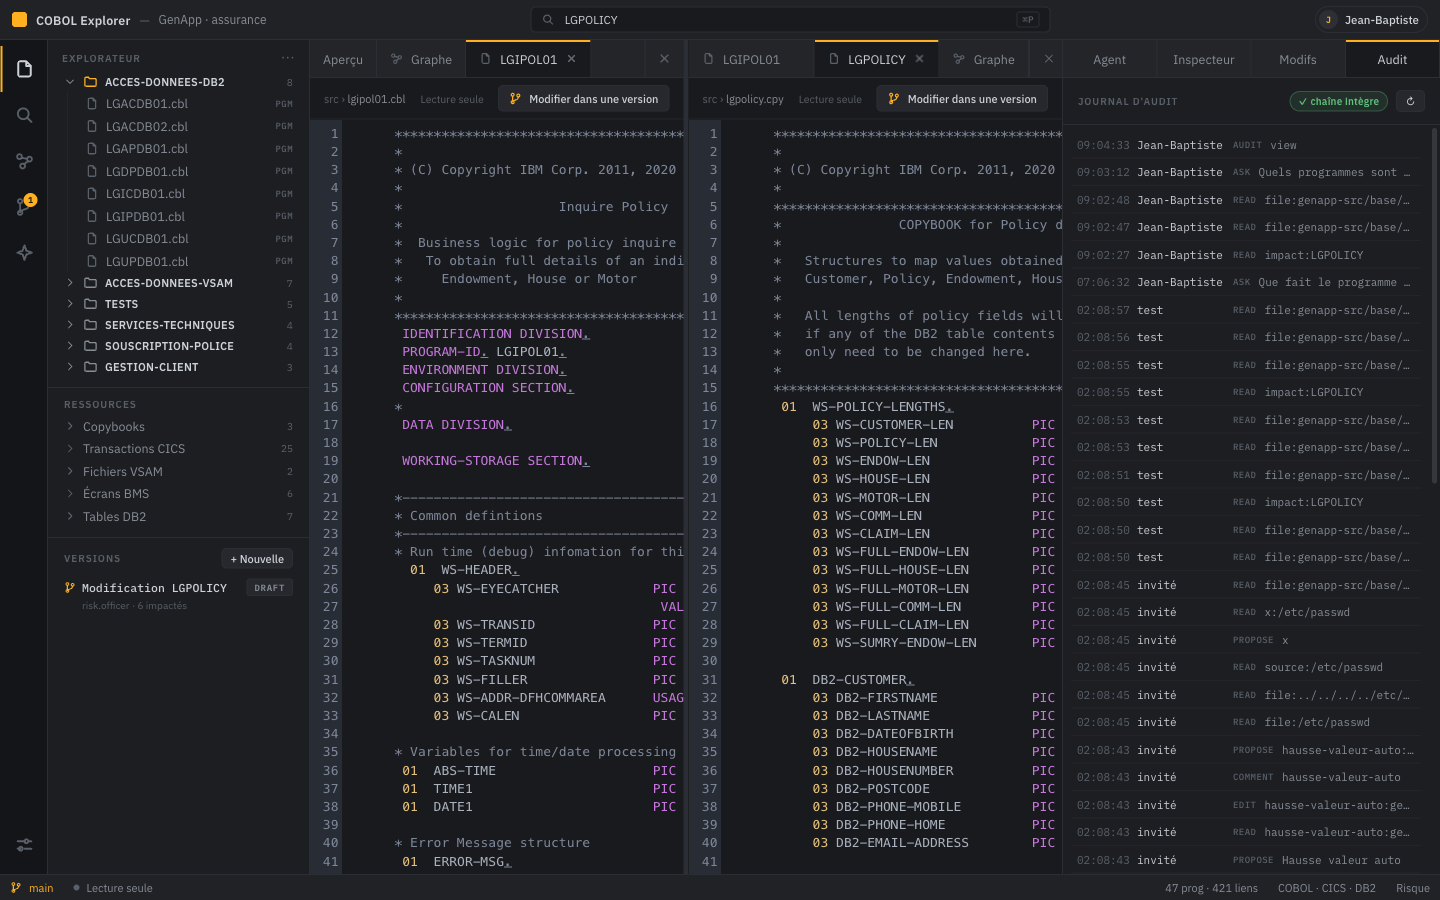
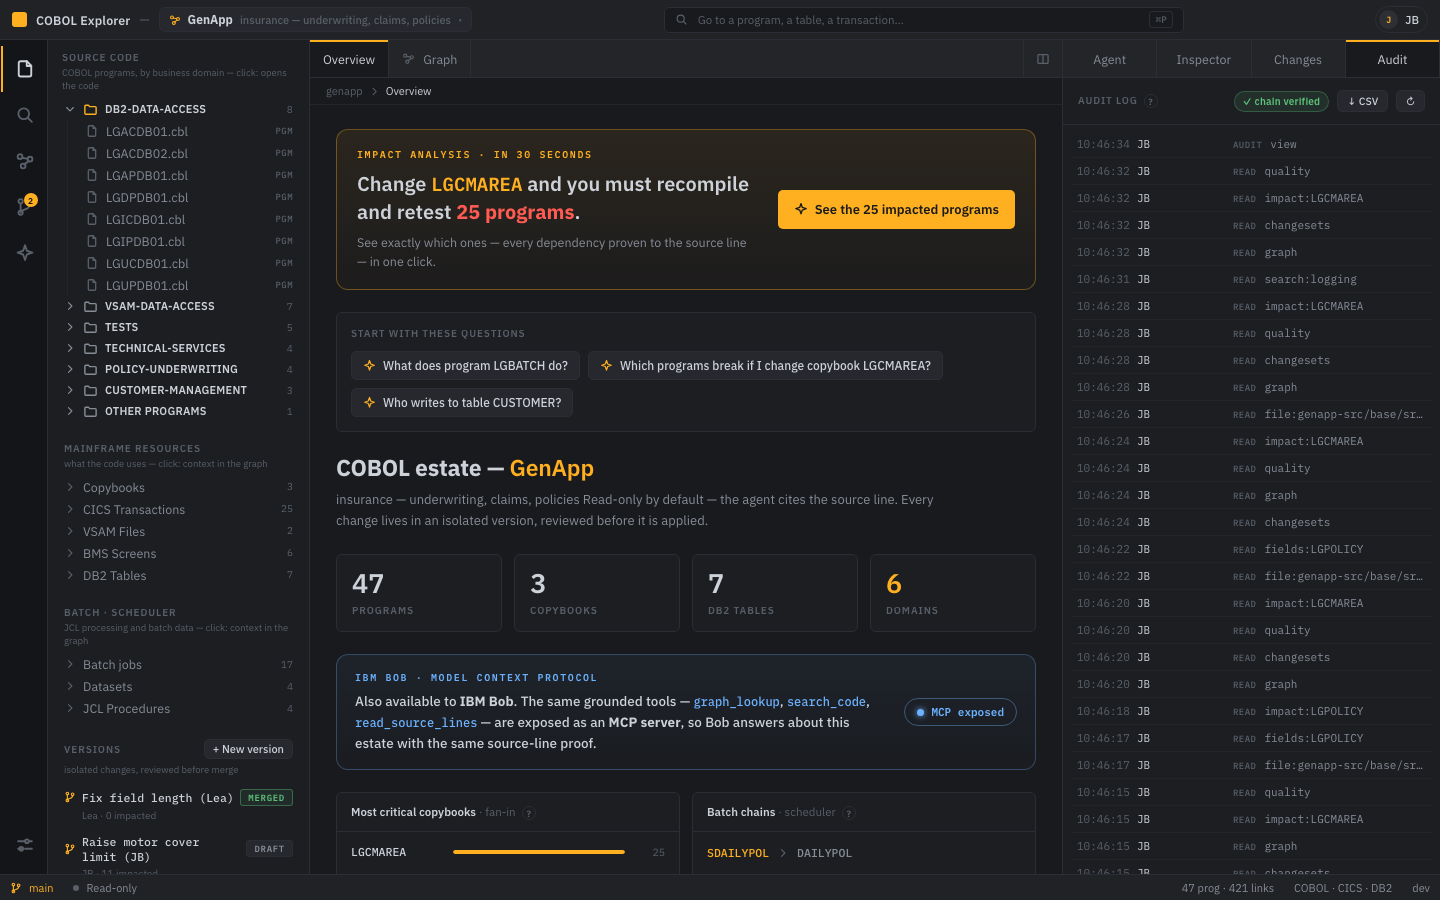
feat: the estate speaks English — domains, demo versions, and all nine figures re-captured

diff --git a/web/e2e/explorer.spec.ts b/web/e2e/explorer.spec.ts
@@ -102,9 +102,12 @@ test("split view : deux fichiers côte à côte (programme + copybook)", async (
 
 test("graphe : le mode focus réduit au voisinage du nœud", async ({ page }) => {
   await page.goto("/");
+  // Select through the search box rather than by clicking the canvas: node positions
+  // depend on the layout, so a click target can end up under the floating panel.
+  await page.getByTestId("search").fill("LGIPOL01");
+  await page.getByTestId("search").press("Enter");
   await page.locator('.tab:has-text("Graph")').click();
   const before = await page.locator(".rf-node").count();
-  await page.locator('.rf-node:has-text("LGIPOL01")').first().click();
   await page.getByTestId("graph-focus").click();
   await expect(page.locator(".rf-node")).not.toHaveCount(before);
   const after = await page.locator(".rf-node").count();

diff --git a/web/src/model.ts b/web/src/model.ts
@@ -35,7 +35,7 @@ export function domainsTree(g: Graph) {
     .filter((n) => n.kind === "PGM" && !domainOf.has(n.id) && n.attrs?.path)
     .sort((a, b) => a.label.localeCompare(b.label));
   const groups = [...domains];
-  if (ungrouped.length) groups.push({ id: "ungrouped", label: domains.length ? "Autres programmes" : "Programmes", programs: ungrouped });
+  if (ungrouped.length) groups.push({ id: "ungrouped", label: domains.length ? "Other programs" : "Programs", programs: ungrouped });
   return { domains, groups, ungrouped };
 }
 

diff --git a/ingestion/tests/test_scheduler_domains.py b/ingestion/tests/test_scheduler_domains.py
@@ -23,6 +23,6 @@ def test_domains_grouping_first_match_wins():
     ]
     dnodes, dedges = apply_domains(nodes, mapping)
     pairs = {(e.src, e.dst) for e in dedges}
-    assert (nid("domain", "SOUSCRIPTION-POLICE"), nid("pgm", "LGAPOL01")) in pairs
-    assert (nid("domain", "ACCES-DONNEES-DB2"), nid("pgm", "LGAPDB01")) in pairs
-    assert (nid("domain", "GESTION-CLIENT"), nid("pgm", "LGACUS01")) in pairs
+    assert (nid("domain", "POLICY-UNDERWRITING"), nid("pgm", "LGAPOL01")) in pairs
+    assert (nid("domain", "DB2-DATA-ACCESS"), nid("pgm", "LGAPDB01")) in pairs
+    assert (nid("domain", "CUSTOMER-MANAGEMENT"), nid("pgm", "LGACUS01")) in pairs
